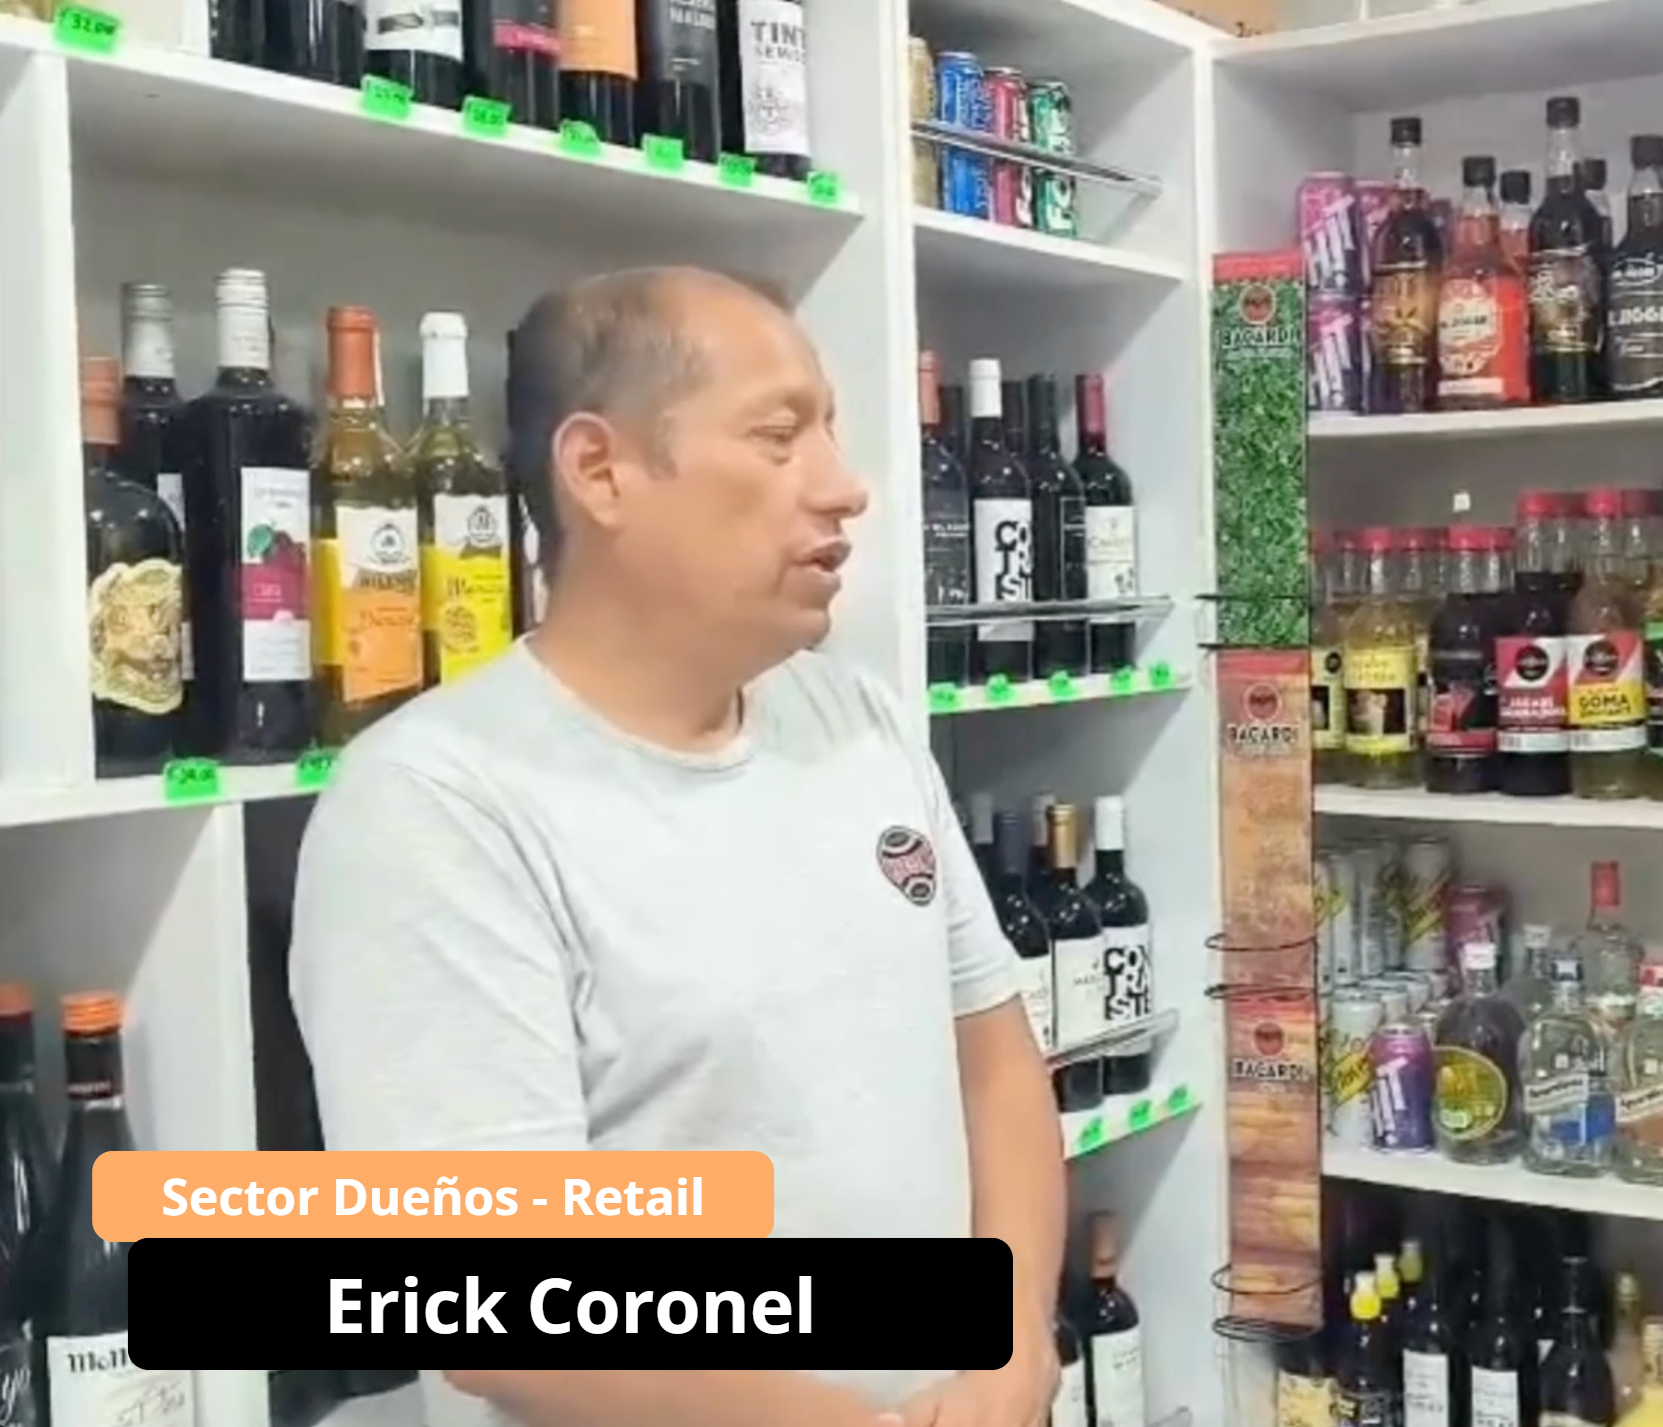
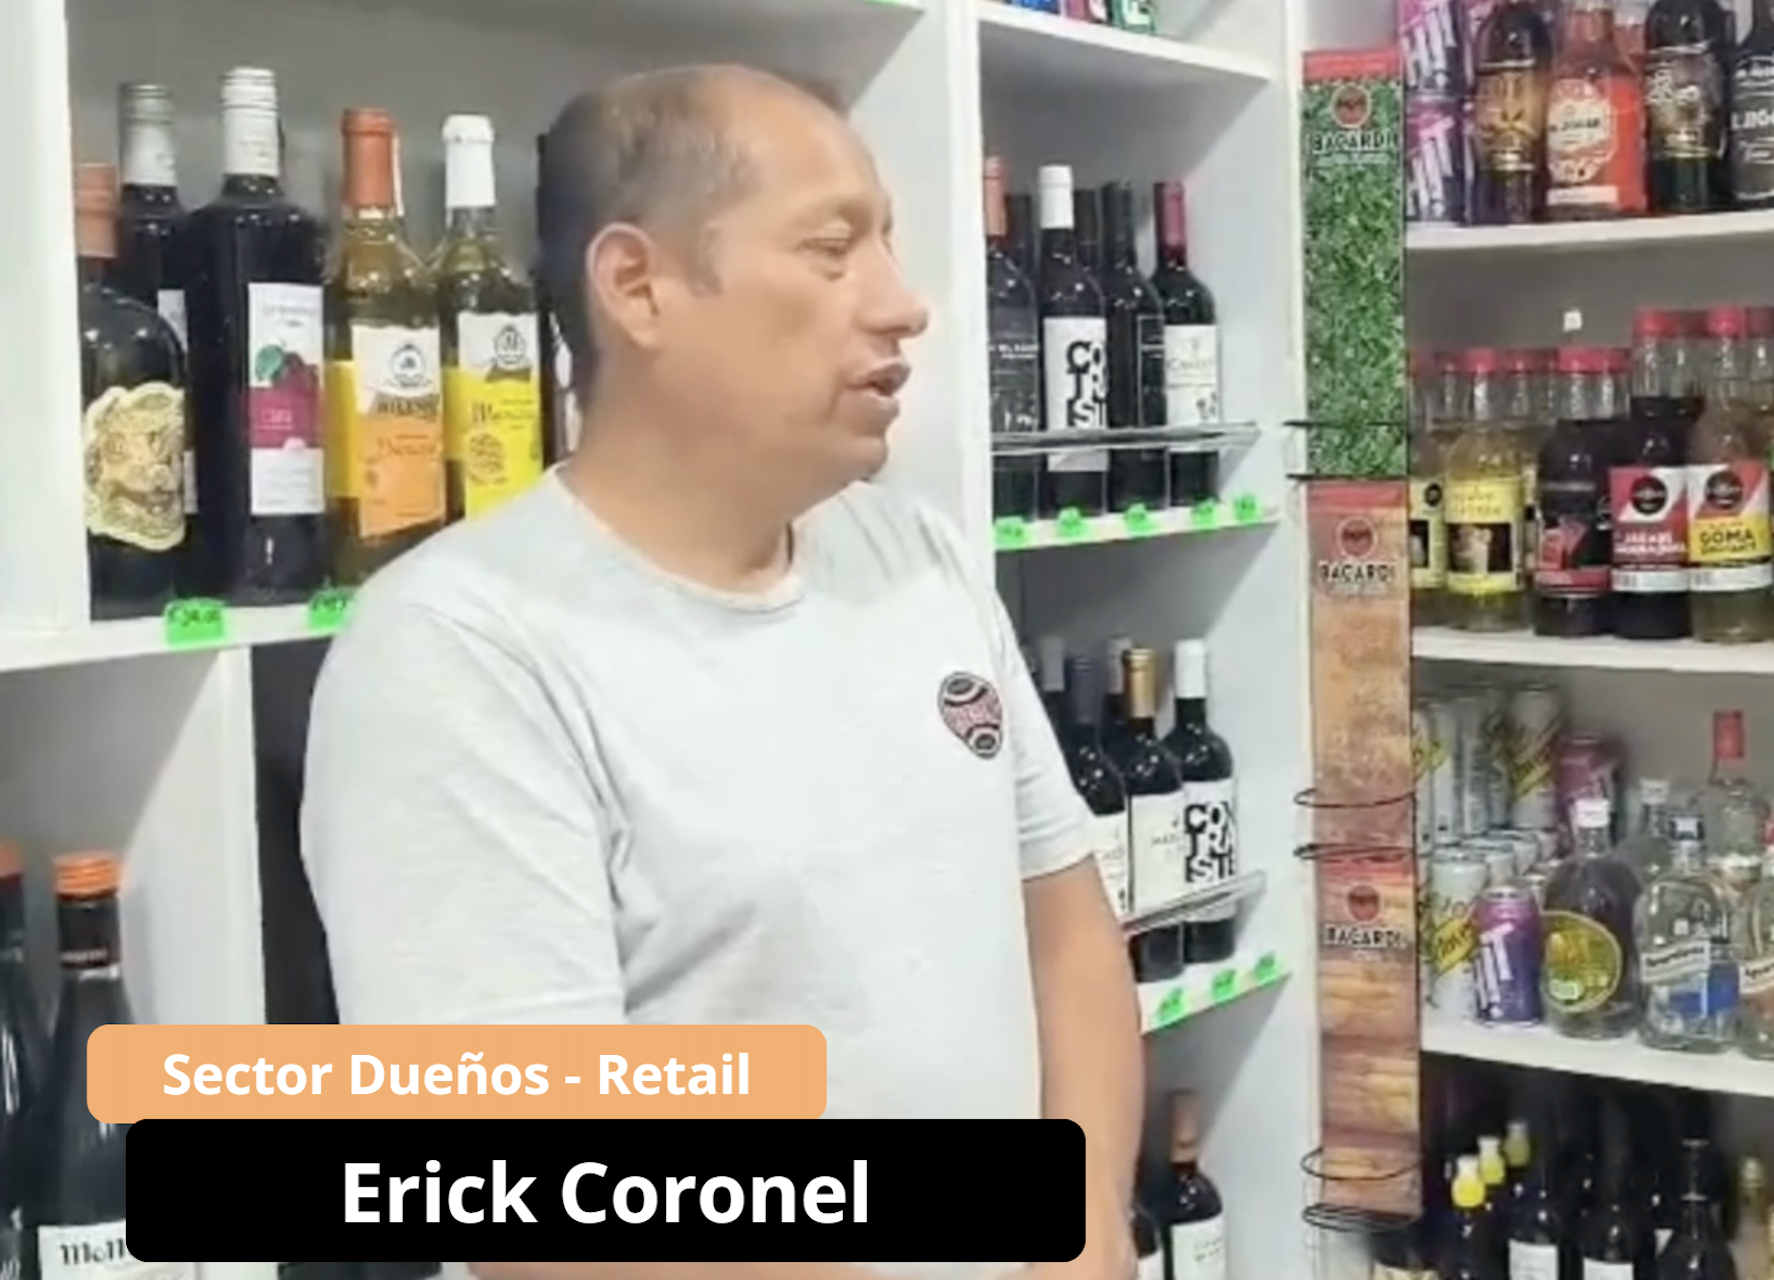
feat: update interview timings and images.

diff --git a/02-chap2-requirements-elicitation-and-analysis.md b/02-chap2-requirements-elicitation-and-analysis.md
@@ -78,10 +78,10 @@ En esta sección se presenta la investigación realizada a partir de la recolecc
 **Nombre:** Alex Guardia
 **Edad:** 38 años
 **Distrito:** Chorrillos
-**Timing:** (00:08 - 05:04 min)
+**Timing:** (00:08 - 04:39 min)
 
 ![Foto de Entrevista](assets/images/chapter2/needfinding-interviews/entrevista1.png)
-Ver entrevista (00:08 - 05:04 min): https://bit.ly/41kf54H
+Ver entrevista (00:08 - 04:39 min): https://bit.ly/41kf54H
 
 **Resumen:**
 Alex Guardia, gerente de restaurantes con 5 a 6 años de experiencia, tiene 38 años, es casado y vive en el distrito de Chorrillos, Lima. Es una persona analítica, comprometida y orientada a la mejora continua. Utiliza dispositivos como un celular Android y una laptop con Windows, y su navegador habitual es Google Chrome.
@@ -93,10 +93,10 @@ Para comunicarse, recurre frecuentemente a canales como WhatsApp y YouTube. Se i
 **Nombre:** Lincoln Chauca Rubio
 **Edad:** 36 años
 **Distrito:** Breña
-**Timing:** (05:05 - 09:13 min)
+**Timing:** (04:40 - 08:24 min)
 
 ![Foto de Entrevista](assets/images/chapter2/needfinding-interviews/entrevista2.png)
-Ver entrevista (05:05 - 09:13 min): https://bit.ly/41kf54H
+Ver entrevista (04:40 - 08:24 min): https://bit.ly/41kf54H
 
 **Resumen:**
 
@@ -115,10 +115,10 @@ Actualmente invierte alrededor de 300 soles mensuales en herramientas tecnológi
 **Nombre:** Amparo Soledad Robles Vásquez
 **Edad:** 56 años
 **Distrito:** Bellavista
-**Timing:** (09:14 - 14:25 min)
+**Timing:** (08:25 - 13:07 min)
 
 ![Foto de Entrevista](assets/images/chapter2/needfinding-interviews/entrevista3.png)
-Ver entrevista (09:14 - 14:25 min): https://bit.ly/41kf54H
+Ver entrevista (08:25 - 13:07 min): https://bit.ly/41kf54H
 
 **Resumen:**
 
@@ -139,10 +139,10 @@ Está dispuesta a invertir en un software que automatice su negocio si este se a
 **Nombre:** Brayner Coronel
 **Edad:** 28 años
 **Distrito:** Villa El Salvador
-**Timing:** 
+**Timing:** (13:08 - 16:08 min)
 
 ![Foto de Entrevista](assets/images/chapter2/needfinding-interviews/entrevista4.png)
-Ver entrevista (): https://bit.ly/41kf54H 
+Ver entrevista (13:08 - 16:08 min): https://bit.ly/41kf54H 
 
 **Resumen:**
 
@@ -164,10 +164,10 @@ Además, considera que contar con un software especializado, con funciones más 
 **Nombre:** Erick Coronel
 **Edad:** 51 años
 **Distrito:** Villa María del Triunfo
-**Timing:**
+**Timing:** (16:09 - 19:15 min)
 
 ![Foto de Entrevista](assets/images/chapter2/needfinding-interviews/entrevista5.png)
-Ver entrevista (): https://bit.ly/41kf54H
+Ver entrevista (16:09 - 19:15 min): https://bit.ly/41kf54H
 
 **Resumen:**
 
@@ -184,10 +184,10 @@ Erick no enfrenta dificultades con productos que no logran venderse, ya que cuen
 **Nombre:** Luis Alfonso Jimenez
 **Edad:** 55 años
 **Distrito:** San Martín de Porres
-**Timing:**
+**Timing:** (19:16 - 29:49 min)
 
 ![Foto de Entrevista](assets/images/chapter2/needfinding-interviews/entrevista6.png)
-Ver entrevista (): https://bit.ly/41kf54H
+Ver entrevista (19:16 - 29:49 min): https://bit.ly/41kf54H
 
 **Resumen:**
 
